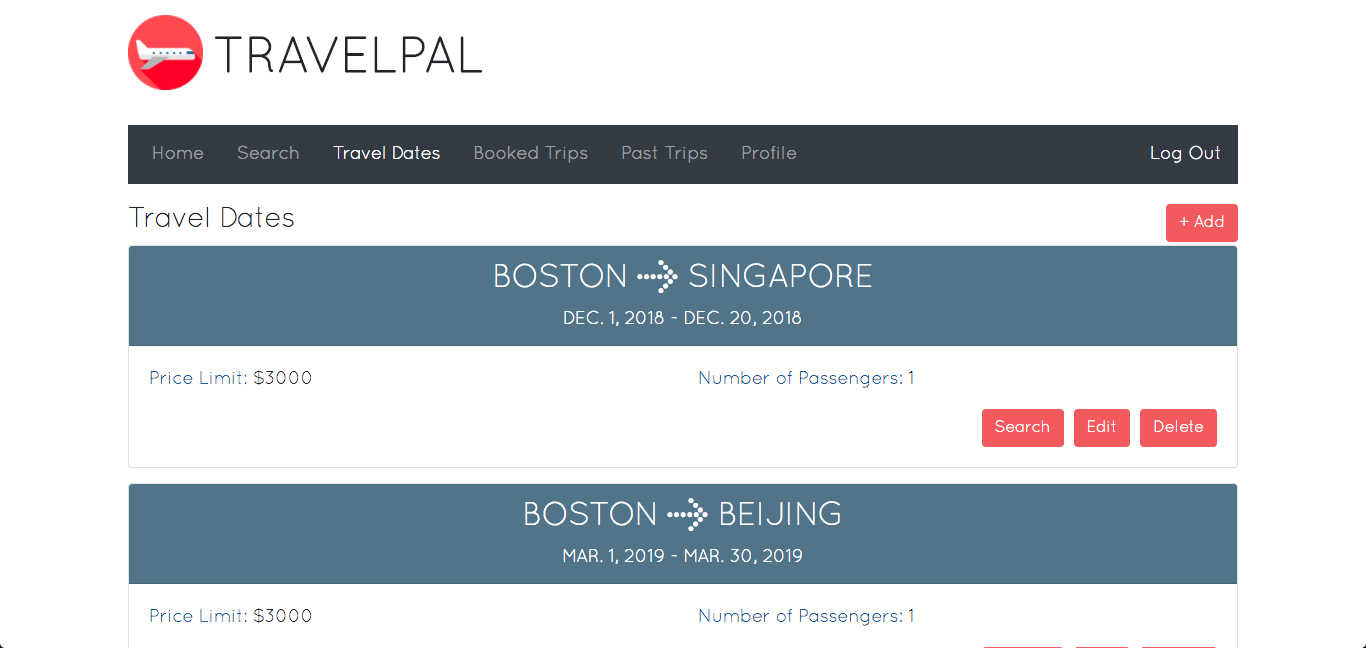
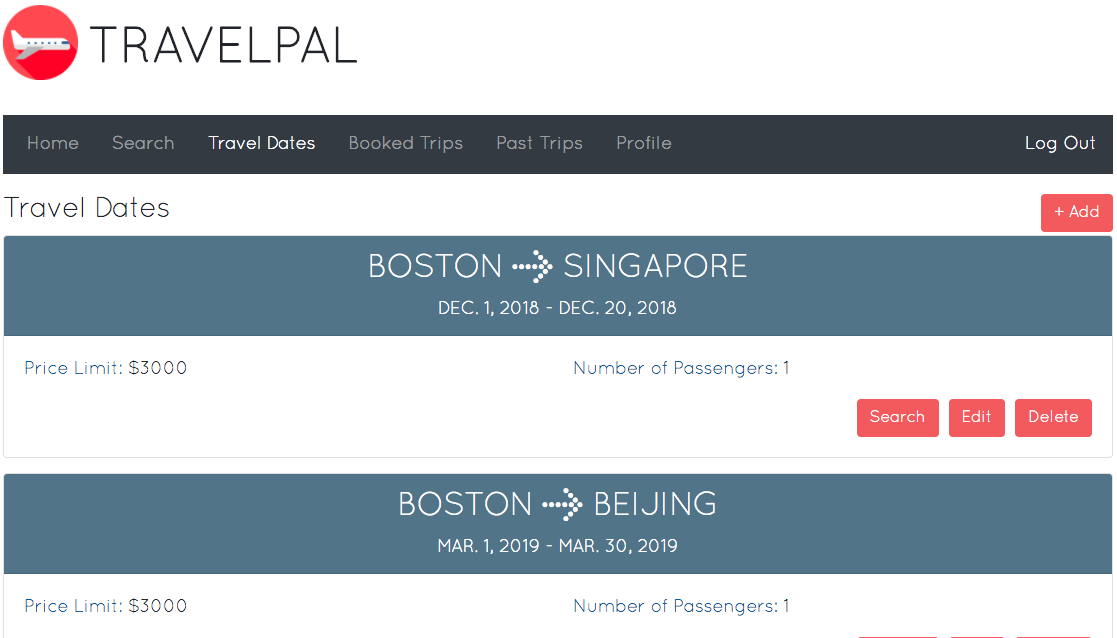
Added more projects (#12)
* Fixed travelpal crop

* Added more projects

* Added project page for Forbidden Island

* Added project pages for Pinny Arcade and Personal Website

* Edited some of the project page descriptions

diff --git a/assets/js/components/PersonalSite.jsx b/assets/js/components/PersonalSite.jsx
@@ -1,0 +1,27 @@
+import React from 'react';
+
+/* Renders the project page for Personal Website */
+export default function PersonalSite() {
+  return (
+    <p>
+      If you like what you see, then I'm glad because this was my third attempt
+      at building a personal website. My&nbsp;
+      <a href="https://github.com/kimberlypn/kimberlypn.github.io/tree/v1.0">first</a>
+      &nbsp;and&nbsp;
+      <a href="https://github.com/kimberlypn/personal-website/tree/v2.0">second</a>
+      &nbsp;websites now redirect to this one, but you can still see what they
+      looked like by checking out their respective GitHub repositories.<br /><br />
+      I made the first website when I had just switched into CS from health
+      science, so it was no surprise that after graduating, I wanted to revamp
+      this barebones-HTML-CSS-no-frameworks-not-even-Bootstrap attempt of a
+      website into something much more interesting.<br /><br />
+      On my second go, I rebuilt my website using the stack I had learned from
+      my Web Development class. My second attempt looked much better, but I
+      still was not completely satisfied because I wanted something more
+      minimalistic. Off to the drawing board I went, and a few weeks later, we
+      now have this: a single-page application (SPA) with React for the UI,
+      Redux for managing client-side application/UI state, and a Postgres
+      database, all wrapped within a Phoenix framework.
+    </p>
+  );
+}

diff --git a/assets/js/components/PinnyArcade.jsx b/assets/js/components/PinnyArcade.jsx
@@ -1,0 +1,23 @@
+import React from 'react';
+
+/* Renders the project page for Kimmy's Pinny Arcade */
+export default function PinnyArcade() {
+  return (
+    <p>
+      If you have known me or a while (or have talked to me some time around
+      March or April), you will know that I love going to&nbsp;
+      <a href="http://east.paxsite.com/">PAX East</a>. Specifically, it is the&nbsp;
+      <a href="https://www.penny-arcade.com/pinny-arcade/">Pinny Arcade</a>&nbsp;
+      that keeps me coming back every year. I am a sucker for collecting things
+      and an even bigger sucker for organizing— and that is exactly why this
+      project came about.<br /><br />
+      I wanted to make a website where I could keep track of the dozens of pins
+      that I have collected over the years, monitor the market price of each
+      pin, and record all of the trades that took place during the convention.<br /><br />
+      This website is still in the making since I was overwhelmed with final
+      assignments not too long after starting it. Some things that I would like
+      to do are to scrape the Pinny Arcade website for the pin images instead
+      of hardcoding them and to use an API to get the market prices of each pin.
+    </p>
+  );
+}

diff --git a/assets/js/components/ForbiddenIsland.jsx b/assets/js/components/ForbiddenIsland.jsx
@@ -1,0 +1,24 @@
+import React from 'react';
+
+/* Renders the project page for Forbidden Island */
+export default function ForbiddenIsland() {
+  return (
+    <p>
+      This was a project for my Fundamentals of Computer Science II class. The
+      assignment was to design a game with mutable world state, ArrayLists,
+      mutable linked data structures, and loops.<br /><br />
+      My partner and I built a
+      forbidden island game using the&nbsp;
+      <a href="https://www2.ccs.neu.edu/javalib/ImpWorld/">ImpWorld</a>&nbsp;
+      library. The user controls a pilot using the arrow keys, and the goal is
+      to collect all five targets and make it to the helicopter before the
+      island is completely submerged. There are three different maps that the
+      user can play, the hardest one being the random terrain map, which was
+      generated using a subdivision algorithm.<br /><br />
+      This class was my first introduction into the infamous world of Java, so
+      I was quite proud of what I had accomplished at the time. Unfortunately,
+      this was before I had taken Object-Oriented Design, so if I had to do it
+      again, you can definitely expect it'd be <i>SOLID</i> improvement.
+    </p>
+  );
+}

diff --git a/assets/js/components/ProjectDetails.jsx b/assets/js/components/ProjectDetails.jsx
@@ -3,9 +3,12 @@ import PropTypes from 'prop-types';
 import { Row, Col } from 'reactstrap';
 import Tooltip from '@material-ui/core/Tooltip';
 
+import ForbiddenIsland from './ForbiddenIsland';
+import GoatJumper from './GoatJumper';
+import PinnyArcade from './PinnyArcade';
+import PersonalSite from './PersonalSite';
 import Shambomon from './Shambomon';
 import TravelPal from './TravelPal';
-import GoatJumper from './GoatJumper';
 
 /* Renders the details page for an individual project */
 export default function ProjectDetails({projects, project}) {
@@ -13,9 +16,12 @@ export default function ProjectDetails({projects, project}) {
   var summaries = {};
 
   // Add the pages for each project to the summaries dictionary
-  summaries["shambomon"] = <Shambomon />;
-  summaries["travelpal"] = <TravelPal />;
-  summaries["goat jumper"] = <GoatJumper />;
+  summaries['forbidden island'] = <ForbiddenIsland />;
+  summaries['goat jumper'] = <GoatJumper />;
+  summaries['kimmy\'s pinny arcade'] = <PinnyArcade />;
+  summaries['personal website'] = <PersonalSite />;
+  summaries['shambomon'] = <Shambomon />;
+  summaries['travelpal'] = <TravelPal />;
 
   let summary = summaries[project.title.toLowerCase()];
   var summarySection;

diff --git a/assets/css/app.scss b/assets/css/app.scss
@@ -137,7 +137,7 @@ a:hover {
 }
 
 .project-title {
-  font-size: 30px;
+  font-size: 26px;
   // Center the title vertically and horizontally
   display: none;
   position: absolute;
@@ -193,7 +193,6 @@ a:hover {
 .repo-icon {
   text-align: center;
   font-size: 50px;
-  cursor: pointer;
 }
 
 .project-arrows {
